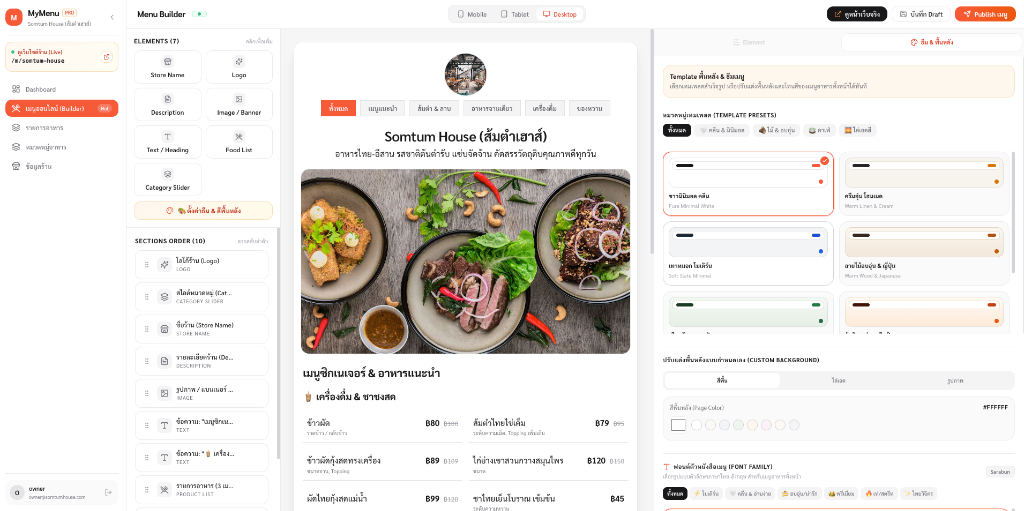
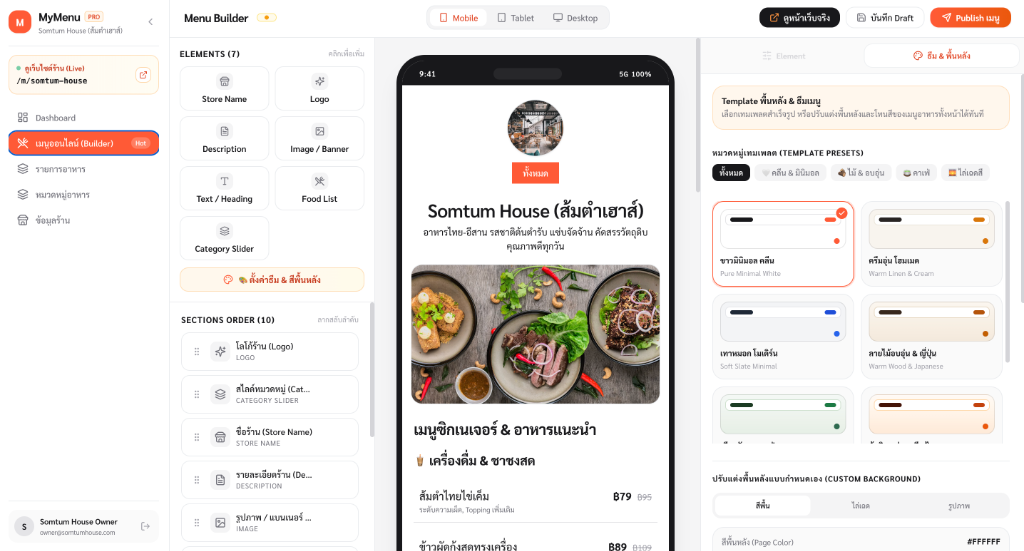
feat(ui): update MyMenu preview screenshot and fix asset path routing

diff --git a/project/mymenu-system/index.html b/project/mymenu-system/index.html
@@ -10,7 +10,7 @@
   <meta property="og:type" content="article">
   <meta property="og:title" content="ระบบจัดการเมนู (เหมาะกับร้านค้าขนาดเล็ก) (฿2,490) | ThinkFaster">
   <meta property="og:description" content="ระบบเมนูร้านอาหารออนไลน์ สแกน QR สั่งอาหารจากโต๊ะ ลดงานพนักงาน เพิ่มยอดขาย ราคาเริ่มต้น ฿2,490 พร้อมใช้งาน">
-  <meta property="og:image" content="assets/images/mymenu-preview.png">
+  <meta property="og:image" content="/assets/images/mymenu-preview.png">
 
   <!-- Twitter -->
   <meta name="twitter:card" content="summary_large_image">

diff --git a/index.html b/index.html
@@ -134,11 +134,12 @@
                 </div>
               </div>
               <img
-                src="assets/images/mymenu-preview.png"
+                src="/assets/images/mymenu-preview.png"
                 alt="ระบบจัดการเมนู (เหมาะกับร้านค้าขนาดเล็ก)"
                 width="600"
                 height="400"
                 class="w-full object-cover aspect-video-box group-hover:opacity-95 transition-opacity"
+                onerror="this.src='assets/images/mymenu-preview.png'"
               />
               <div class="p-4 bg-white flex items-center justify-between">
                 <div>

diff --git a/server.js b/server.js
@@ -66,6 +66,11 @@ const server = http.createServer((req, res) => {
     }
   }
 
+  // Handle nested asset paths from admin or subdirectories
+  if (pathname.includes('/assets/')) {
+    pathname = pathname.substring(pathname.indexOf('/assets/'));
+  }
+
   let filePath = path.join(BASE_DIR, pathname);
 
   // If directory, look for index.html
